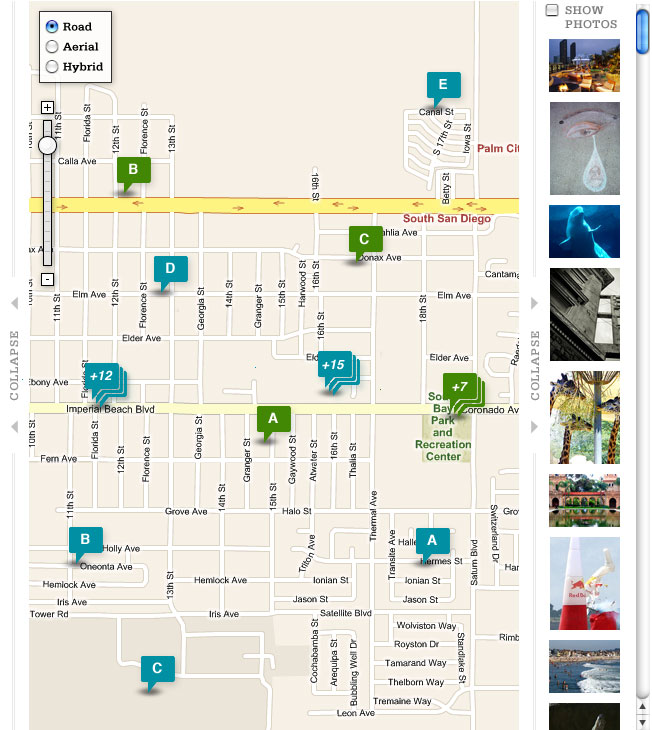
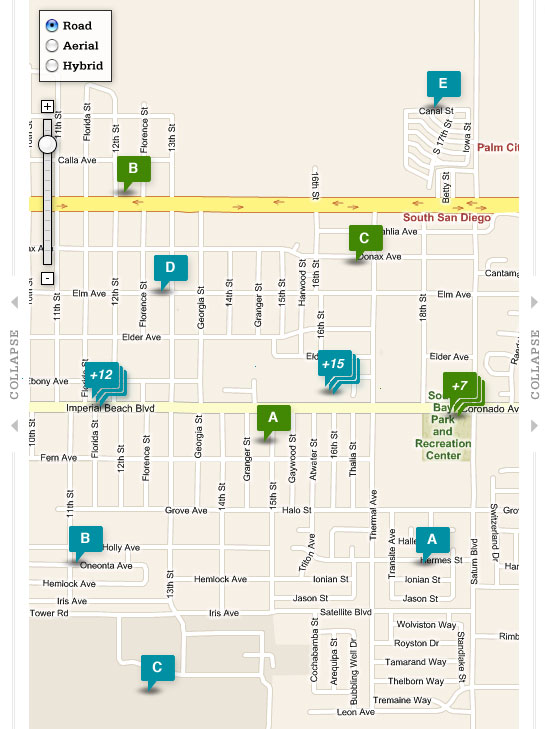
San Diego map page complete officially

diff --git a/world/north-america/united-states/california/san-diego/map/index.html b/world/north-america/united-states/california/san-diego/map/index.html
@@ -486,7 +486,34 @@
 
 			</div><!-- .col-small-->
 			<div class="col-big">
-				<img src="/-/img/san-diego-map-big.jpg" alt="san-diego-map-big">
+				<div class="width-80">
+					<img src="/-/img/san-diego-map-big.jpg" alt="san-diego-map-big">
+				</div>
+				<div class="width-20">
+					<div class="height-20 margin-5">
+						<input class="inline-block-1" type="checkbox">
+						<p class="inline-block-1 style-5">show photos</p>
+					</div>
+					<div class="scroll height-change">
+						<a href="#"><img class="margin-5" src="/-/img/img-17.jpg" alt="img-17"></a>
+						<a href="#"><img class="margin-5" src="/-/img/img-18.jpg" alt="img-18"></a>
+						<a href="#"><img class="margin-5" src="/-/img/img-19.jpg" alt="img-19"></a>
+						<a href="#"><img class="margin-5" src="/-/img/img-20.jpg" alt="img-20"></a>
+						<a href="#"><img class="margin-5" src="/-/img/img-21.jpg" alt="img-21"></a>
+						<a href="#"><img class="margin-5" src="/-/img/img-22.jpg" alt="img-22"></a>
+						<a href="#"><img class="margin-5" src="/-/img/img-23.jpg" alt="img-23"></a>
+						<a href="#"><img class="margin-5" src="/-/img/img-24.jpg" alt="img-24"></a>
+						<a href="#"><img class="margin-5" src="/-/img/img-17.jpg" alt="img-17"></a>
+						<a href="#"><img class="margin-5" src="/-/img/img-18.jpg" alt="img-18"></a>
+						<a href="#"><img class="margin-5" src="/-/img/img-19.jpg" alt="img-19"></a>
+						<a href="#"><img class="margin-5" src="/-/img/img-20.jpg" alt="img-20"></a>
+						<a href="#"><img class="margin-5" src="/-/img/img-21.jpg" alt="img-21"></a>
+						<a href="#"><img class="margin-5" src="/-/img/img-22.jpg" alt="img-22"></a>
+						<a href="#"><img class="margin-5" src="/-/img/img-23.jpg" alt="img-23"></a>
+						<a href="#"><img class="margin-5" src="/-/img/img-24.jpg" alt="img-24"></a>
+					
+					</div><!-- scroll -->
+				</div>
 			</div><!-- .col-big -->
 		</div><!-- .clearfix -->
 	</div><!-- width-98 -->

diff --git a/-/css/style.css b/-/css/style.css
@@ -40,6 +40,10 @@ body {
 .img-text {
 	width: 100%;
 }
+
+.height-change {
+	height: 660px !important;
+}
 .scroll {
 	width: 100%;
 	height: 430px;
@@ -694,6 +698,19 @@ footer p {
 	margin-left: 2px;
 }
 
+.style-5 {
+	font-size: 11px !important;
+	color: #7f7f7f;
+	font-family: "Serifa";
+	text-transform: uppercase;
+	margin-left: 2px;
+}
+
+.height-20 {
+	height: 20px;
+}
+
+
 .color-27 {
 	color: #7a7b7c;
 	font-size: 12px;
@@ -943,7 +960,6 @@ header {
 		border-left: 1px solid black;
 	}
 
-
 }
 
 @media screen and (min-width: 400px) {
@@ -958,6 +974,17 @@ header {
 	.float-bold {
 		float: left;
 	}
+
+	.width-80 {
+		width: 80%;
+		float: left;
+	}
+
+	.width-20 {
+		width: 20%;
+		float: left;
+	}
+
 
 	.scroll .col-small {
 		float: right;
